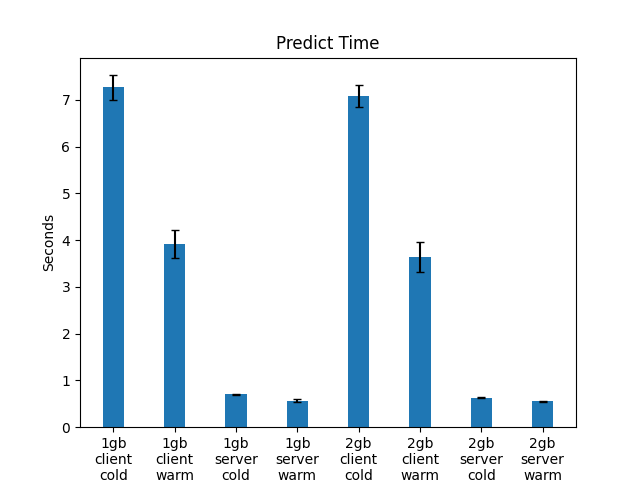
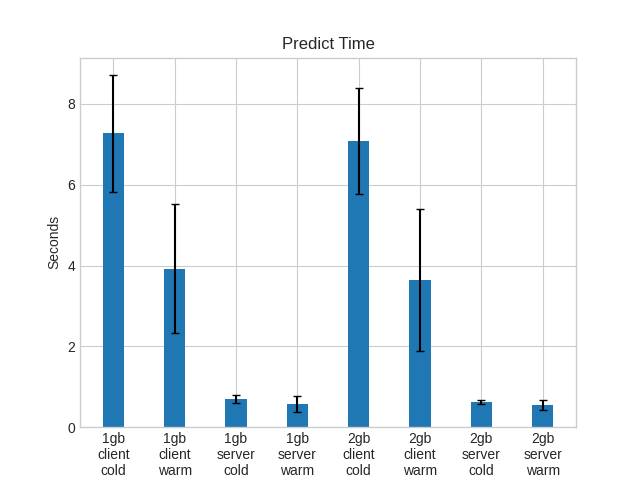
final code

diff --git a/service/graph.py b/service/graph.py
@@ -59,6 +59,7 @@ stats_df['std'] = benchmark_df.groupby(['size', 'party', 'type', 'timer'], as_in
 stats_df = stats_df.sort_values(by=['size', 'party', 'type', 'test'])
 #----------------------GRAPH Set 1----------------------------
 
+plt.style.use('seaborn-whitegrid')
 
 train_df = stats_df.loc[(stats_df['test'] == 'train')]
 upload_df = stats_df.loc[(stats_df['test'] == 'upload')]
@@ -78,7 +79,7 @@ for test, df in graphs:
     plt.ylabel("Seconds")
     plt.title(f"{test} Time")
     plt.xticks(ind, labels)
-    plt.savefig(f'{test}_graph.svg')
+    plt.savefig(f'{test}_graph.png')
     plt.show()
 
 #----------------------GRAPH Set 2----------------------------
